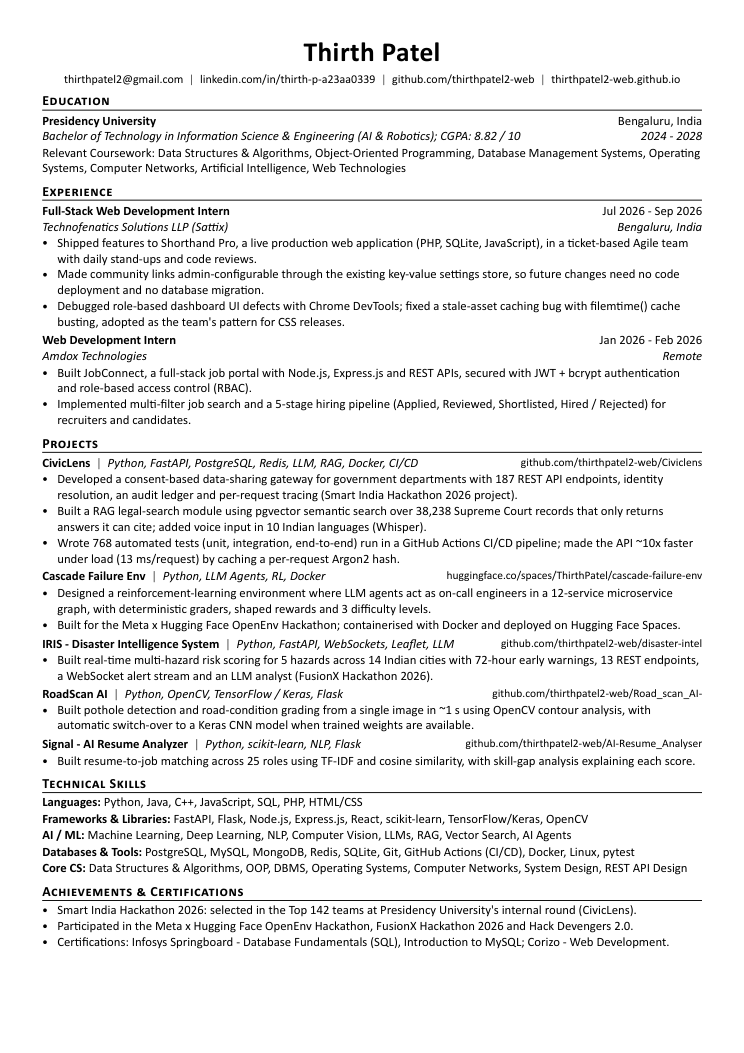
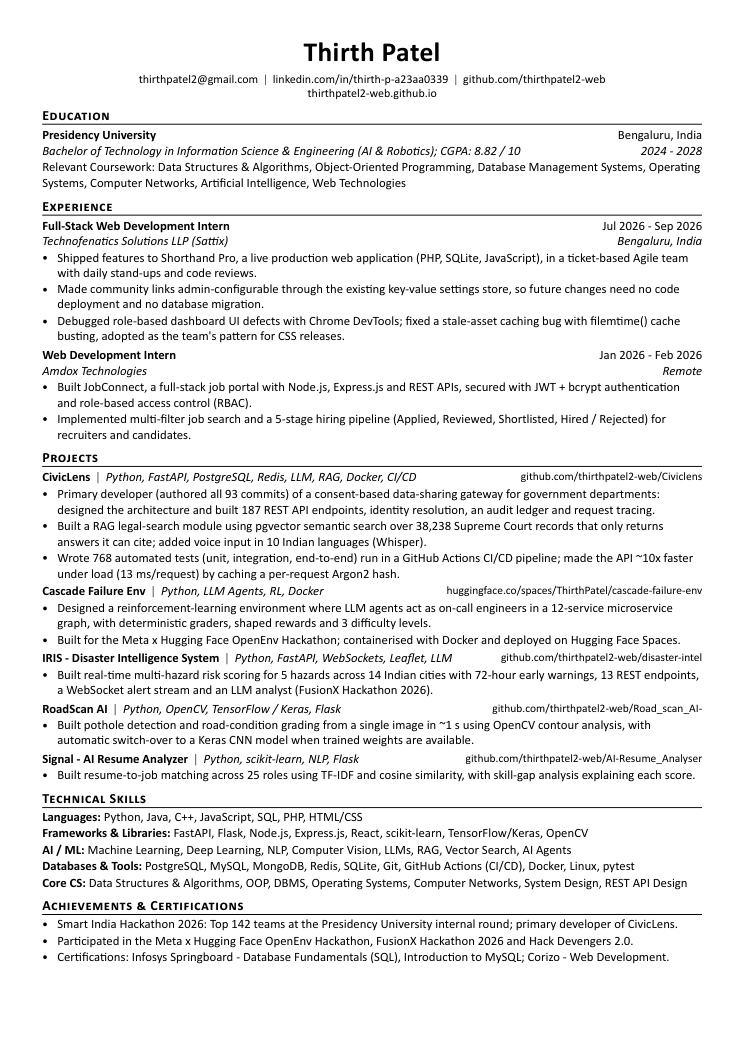
CivicLens: credit as primary developer (all 93 commits)

Changed region(s): [[0.0618, 0.0608, 0.9583, 0.9117]]

diff --git a/index.html b/index.html
@@ -260,7 +260,7 @@
       <h3>CivicLens <span class="kind">hackathon</span></h3>
       <div class="org">Top 142 teams, Presidency University internal round · problem statement SIH26129</div>
       <ul>
-        <li>Built with my team: a consent-first gateway that lets government departments reuse each other's verified data.</li>
+        <li>Primary developer (all 93 commits): a consent-first gateway that lets government departments reuse each other's verified data.</li>
         <li>187 REST operations, 50 screens, 10 languages, RAG over 38,238 judgments, 768 automated tests in CI.</li>
       </ul>
     </div>
